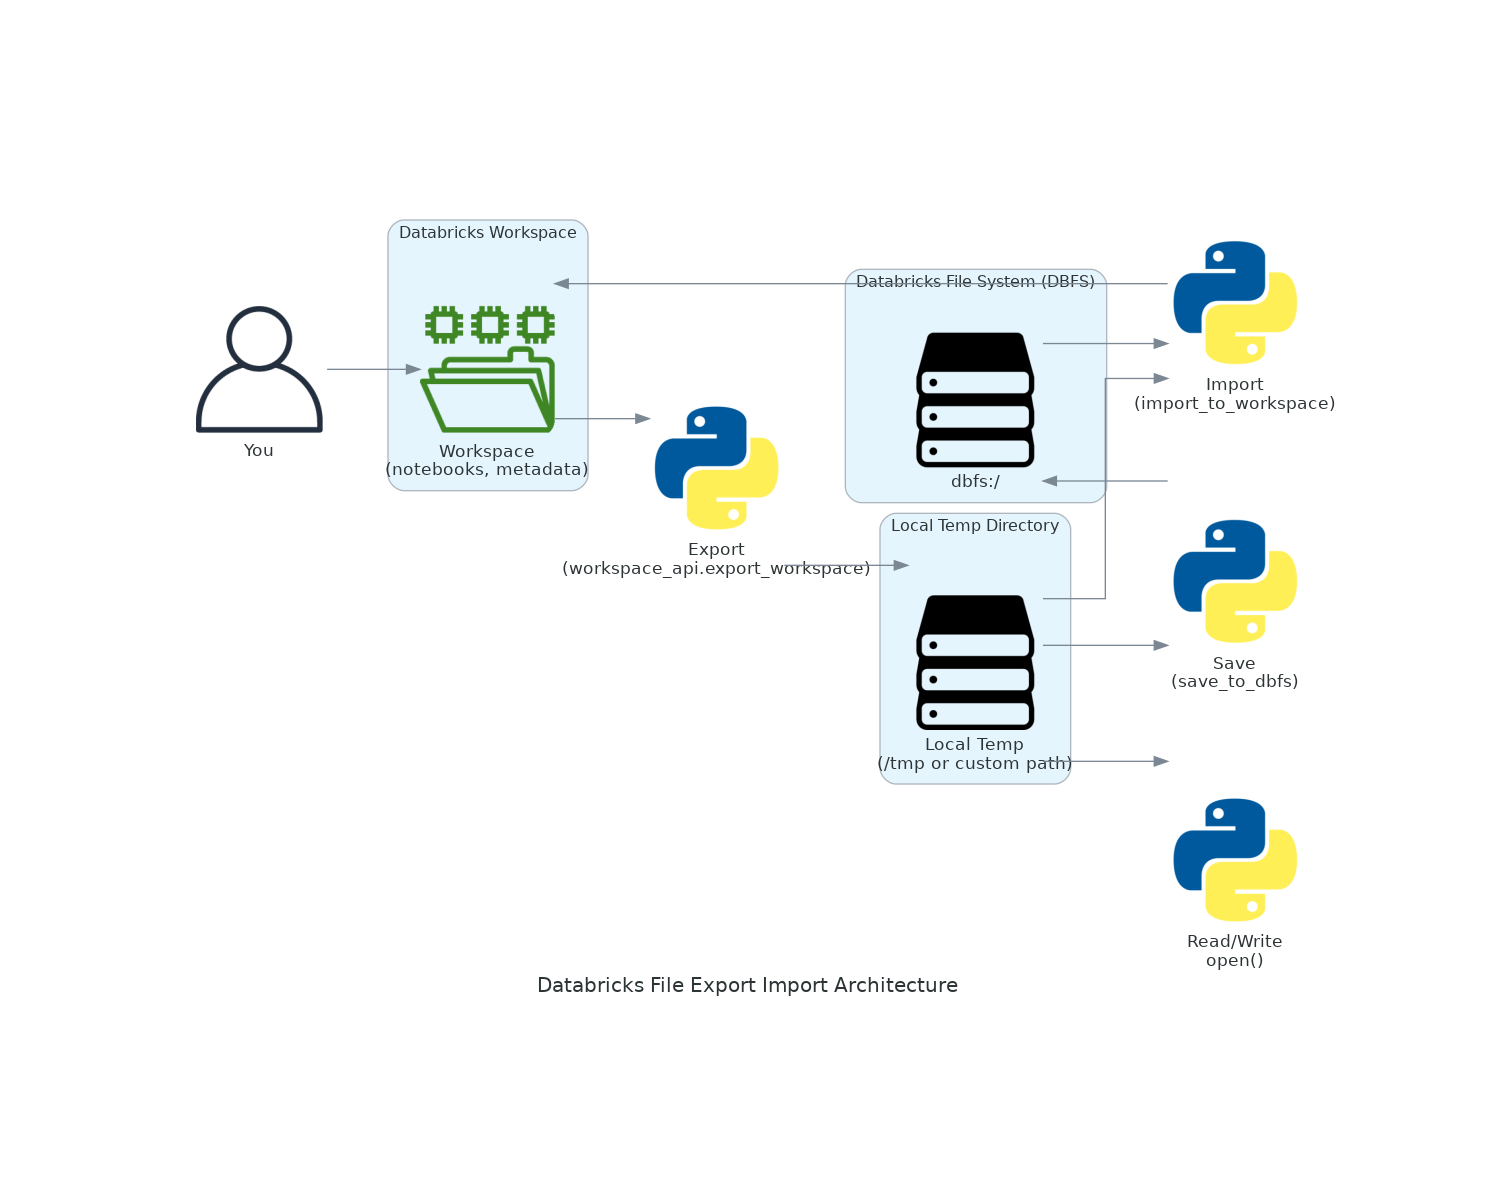
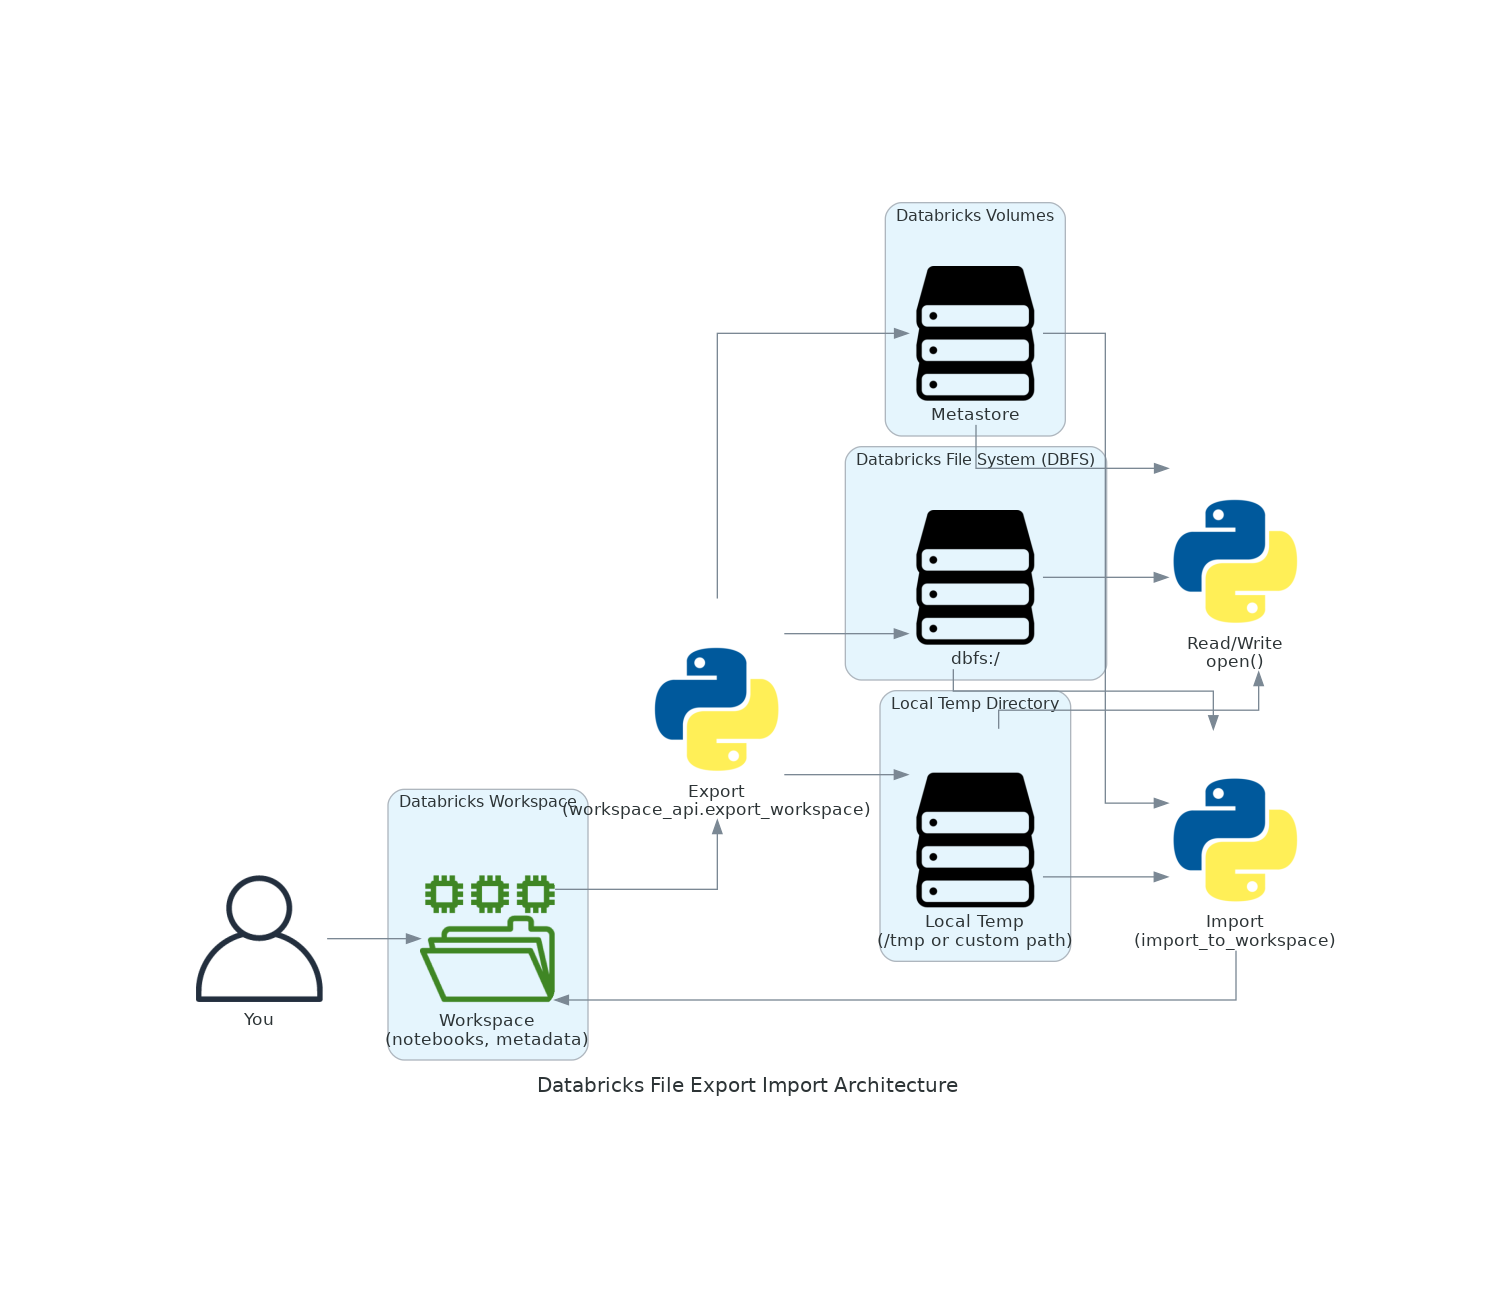
add file

diff --git a/applications/databricks/file_export.py b/applications/databricks/file_export.py
@@ -26,7 +26,11 @@ def create_architecture_diagram():
         # Databricks Workspace
         with Cluster("Databricks Workspace"):
             workspace = ElasticFileSystemEFSFileSystem("Workspace\n(notebooks, metadata)")
-        
+
+        # Volumes 
+        with Cluster("Databricks Volumes"):
+            volumes = Storage("Metastore")
+
         # DBFS
         with Cluster("Databricks File System (DBFS)"):
             dbfs = Storage("dbfs:/")
@@ -47,17 +51,25 @@ def create_architecture_diagram():
         # dbfs >> read_write_operation
 
         import_function = Python("Import\n(import_to_workspace)")
-        save_function = Python("Save\n(save_to_dbfs)")
         export_function = Python("Export\n(workspace_api.export_workspace)")
         read_write_function = Python("Read/Write\nopen()")
 
         # Workflow connections
-        user >> workspace >> export_function >> local_tmp
-        local_tmp >> read_write_function
-        local_tmp >> save_function >> dbfs
-        local_tmp >> import_function
-        dbfs >> import_function >> workspace
+        user >> workspace >> export_function
 
+        export_function >> volumes
+        volumes >> read_write_function
+        volumes >> import_function
+        
+        export_function >> local_tmp
+        local_tmp >> read_write_function
+        local_tmp >> import_function
+        
+        export_function >> dbfs
+        dbfs >> read_write_function
+        dbfs >> import_function
+
+        import_function >> workspace
 
 if __name__ == "__main__":
     create_architecture_diagram()
